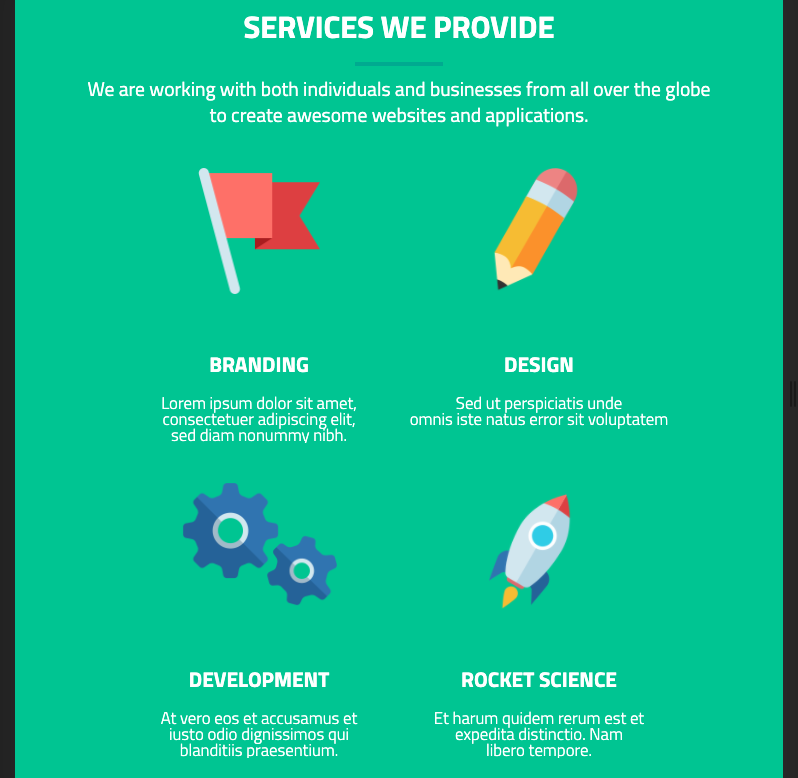
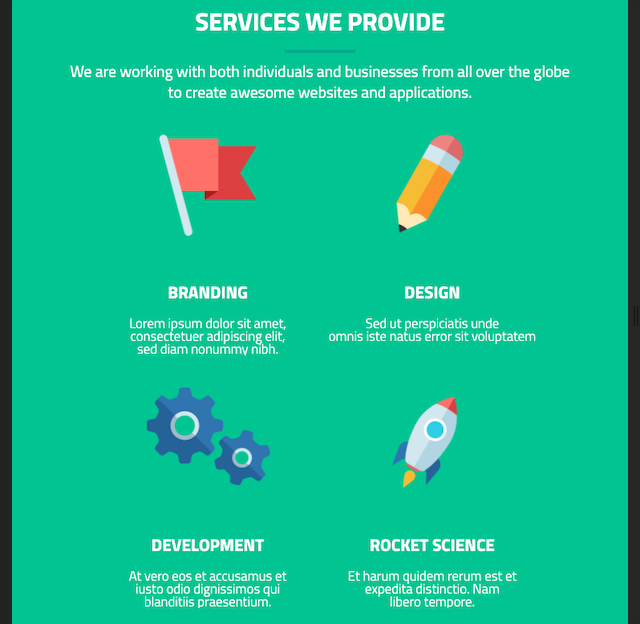
fit size

diff --git a/README.md b/README.md
@@ -11,8 +11,12 @@ Used adptive and fluid development for correct display on various devices. Also 
 ## example of display on a notebook
 ![Example_1](https://github.com/morozov312/Simple-HTML-CSS-development/raw/master/src/example_1.png)
 ## example of display on a tablet
-![Example_2](https://github.com/morozov312/Simple-HTML-CSS-development/raw/master/src/example_2.png)
-## example of display on a mobile
-![Example_3](https://github.com/morozov312/Simple-HTML-CSS-development/raw/master/src/example_3.png)
-![Example_4](https://github.com/morozov312/Simple-HTML-CSS-development/raw/master/src/example_4.png)
+<p align="center">
+<img src="src/example_2.png" alt="example_2">
+ </p><br> 
+<h2> example of display on a mobile </h2>
+
+<img height="400px" align="left" src="src/example_3.png" alt="example_3">
+<img height="400px" align="right" src="src/example_4.png" alt="example_4">
+ 
 
